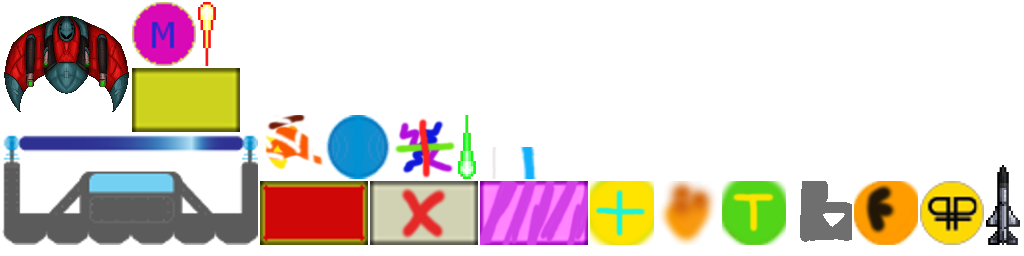
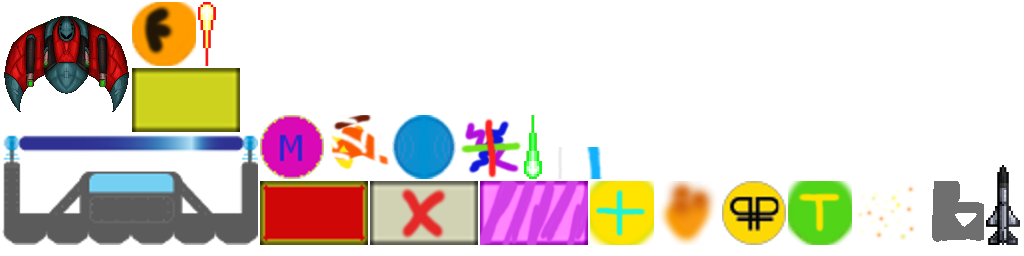
Added new missile explosion particle effect

diff --git a/core/src/com/your3wishes/game/Screens/GameScreen.java b/core/src/com/your3wishes/game/Screens/GameScreen.java
@@ -349,8 +349,10 @@ public class GameScreen implements Screen {
 
             // Launch ball if touching top half of screen
             if (touchPos.y >= MyGame.SCREENHEIGHT / 4) {
+                if (balls.get(0).launched == true)
+                    tryToShootMissile(touchPos);
                 balls.get(0).launch(touchPos.x, touchPos.y);
-                tryToShootMissile(touchPos);
+
             }
         }
 
@@ -525,10 +527,10 @@ public class GameScreen implements Screen {
         stage.addActor(damageExplosion);
     }
 
-    public void spawnMissileExplosion(float x, float y) {
+    public void spawnMissileExplosion(float x, float y, Missile missile) {
         damageExplosion = damageExplosionPool.obtain();
         damageExplosion.setType(DamageExplosion.Type.MISSILE);
-        damageExplosion.setPosition(x, y);
+        damageExplosion.setPosition(x, y + missile.getHeight());
         damageExplosion.getEffect().setPosition(x, y);
         damageExplosion.init();
         damageExplosions.add(damageExplosion);
@@ -737,7 +739,7 @@ public class GameScreen implements Screen {
             for (Missile item : missiles) {
                 if (brick.getBounds().overlaps(item.getBounds())) {
                     item.alive = false;
-                    spawnMissileExplosion(item.getX(), item.getY());
+                    spawnMissileExplosion(item.getX(), item.getY(), item);
                     // Damage brick
                     brick.bulletHit(item.getDamage());
                     if (!brick.alive) {
@@ -831,7 +833,7 @@ public class GameScreen implements Screen {
             for (Missile item : missiles) {
                 if (enemyShip.getBounds().overlaps(item.getBounds())) {
                     item.alive = false;
-                    spawnMissileExplosion(item.getX(), item.getY());
+                    spawnMissileExplosion(item.getX(), item.getY(), item);
                     // Damage enemy
                     enemyShip.damage(item.getDamage());
                     spawnEnemyHitParticle(item.getX() + (item.getWidth() * item.getScaleX() / 2), item.getY() + (item.getHeight() * item.getScaleY()));

diff --git a/core/src/com/your3wishes/game/DamageExplosion.java b/core/src/com/your3wishes/game/DamageExplosion.java
@@ -118,7 +118,7 @@ public class DamageExplosion extends Actor implements Pool.Poolable, Freeable {
                     effect.load(Gdx.files.internal("Particles/brickExplosion.p"), assets.assetManager.get("gameScreen.atlas", TextureAtlas.class));
                     break;
                 case MISSILE:
-                    effect.load(Gdx.files.internal("Particles/brickExplosion.p"), assets.assetManager.get("gameScreen.atlas", TextureAtlas.class));
+                    effect.load(Gdx.files.internal("Particles/missileExplosion.p"), assets.assetManager.get("gameScreen.atlas", TextureAtlas.class));
                     break;
             }
         } catch (Exception e){
